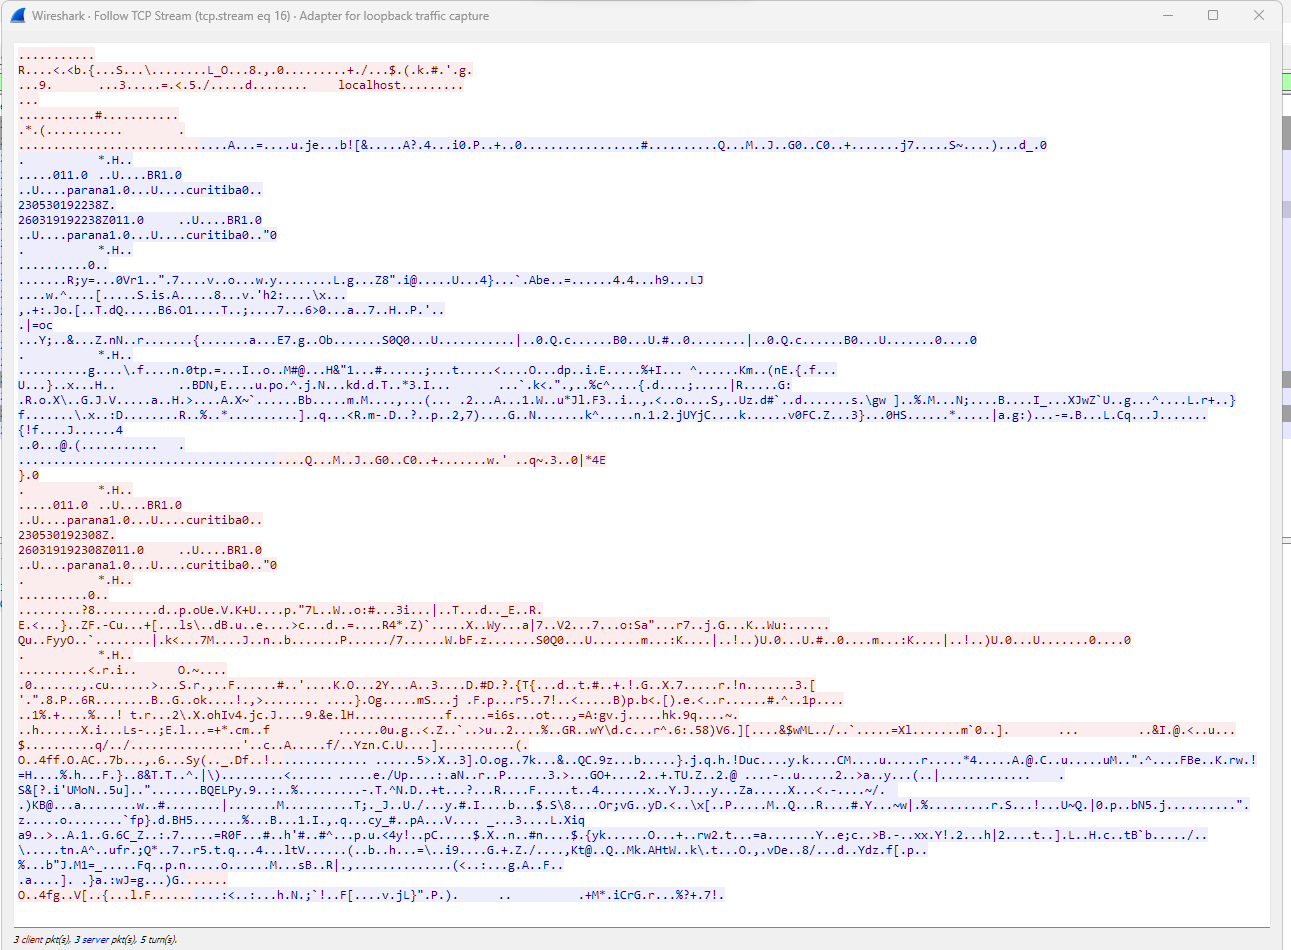
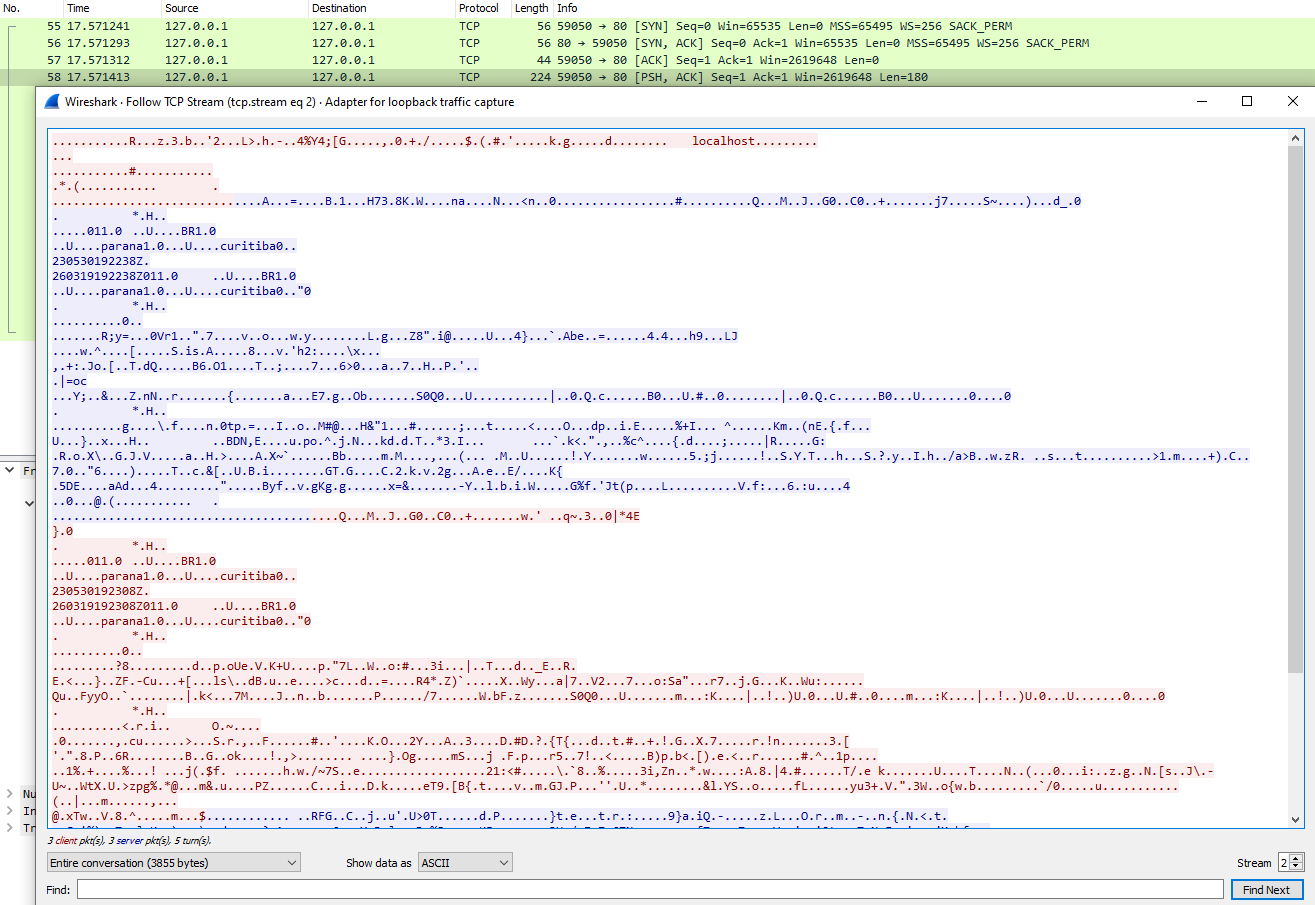
Versão final contendo os relatórios de testes

diff --git a/src/server.py b/src/server.py
@@ -19,12 +19,12 @@ temp_table_columns = f'{temp_table_column_key} INTEGER, {temp_table_column_value
 
 # Define o endereço IP e a porta do servidor
 server_ip = 'localhost'
-server_port = 80
+server_port = 3000
 cert_file = 'certificados/certificate-server.crt'
 key_file = 'certificados/certificate-server.key'
 
 # Define configurações do banco de dados configurado no PostgreSQL do servidor
-# NOTA: Necessário configurar banco no PC, baixando o PostgreSQL
+# NOTA1: Necessário configurar banco no PC conforme as credenciais definidas aqui
 db_host = 'localhost'
 db_port = 5432
 db_name = 'postgres'
@@ -176,8 +176,9 @@ def handle_server(server_socket):
             break
 
 
-########## main ##########
+## Fluxo principal ##
 
+# Criação do banco de dados PSQL
 db_connection, db_cursor = create_database();
 
 # Criação do objeto socket
@@ -192,10 +193,10 @@ server_socket.listen(5)
 print('Servidor pronto para receber conexões...')
 
 # Criação do contexto SSL/TLS 
-#context = ssl.create_default_context(ssl.Purpose.CLIENT_AUTH)
 context = ssl.SSLContext(ssl.PROTOCOL_TLSv1_2)
 context.load_verify_locations(cafile='certificados/certificate-client.crt')
 context.load_cert_chain(certfile=cert_file, keyfile=key_file)
+context.keylog_filename = './logs/keylog.log'
 context.verify_mode = ssl.CERT_REQUIRED
 
 # Cria uma thread para poder interromper a execução do servidor
@@ -216,7 +217,7 @@ while True:
     # Inicia camada de segurança SSL/TLS
     secure_connection = context.wrap_socket(client_socket, server_side=True)
 
-    # Cria uma thread pra processar a requisicao do cliente
+    # Cria uma thread pra processar a requisição do cliente
     client_handler = threading.Thread(target=handle_request, args=(secure_connection, db_connection,))
     client_handler.start()
 

diff --git a/src/client.py b/src/client.py
@@ -8,11 +8,11 @@ import ssl
 
 # Define o endereço IP e a porta
 target_ip = 'localhost'
-target_port = 80
+target_port = 3000
 cert_file = 'certificados/certificate-client.crt'
 key_file = 'certificados/certificate-client.key'
 
-# Lida com os inputs do usuario para obter os detalhes da requisicao
+# Lida com os inputs do usuario para obter os detalhes da requisicao a ser feita
 def handle_input():
 
     # Recebe a ação a ser realizada
@@ -121,6 +121,7 @@ def handle_input():
 
     return cmd_input
 
+## Fluxo principal ## 
 
 # Envia uma mensagem de input do usuário para o servidor
 while True:
@@ -138,27 +139,25 @@ while True:
     client_socket = socket.socket(socket.AF_INET, socket.SOCK_STREAM)
 
     # Configuração do contexto SSL/TLS
-    #context = ssl.create_default_context(ssl.Purpose.SERVER_AUTH)
     context = ssl.SSLContext(ssl.PROTOCOL_TLSv1_2)
     context.load_verify_locations(cafile='certificados/certificate-server.crt')
     context.load_cert_chain(certfile=cert_file, keyfile=key_file)
-
-    #context.check_hostname = False  # Desabilita verificação de hostname
     context.verify_mode = ssl.CERT_REQUIRED
+    #context.check_hostname = False  # Desabilita verificação de hostname
 
     # Inicia a camada de segurança SSL/TLS
     secure_socket = context.wrap_socket(client_socket, server_hostname=target_ip)
 
     # Conecta e envia uma mensagem para o servidor
     secure_socket.connect((target_ip, target_port))
-
     secure_socket.send(cmd_input.encode('utf-8'))
 
-    # Recebe 4096 bits de resposta
+    # Recebe 1024 bits de resposta
     client_response = secure_socket.recv(1024)
 
     # Imprime a resposta do servidor
     print(client_response)
 
+    # Fecha a conexão com os sockets
     secure_socket.close()
     client_socket.close()

diff --git a/relatorio/relatorio.md b/relatorio/relatorio.md
@@ -1,8 +1,7 @@
-# Relatório do trabalho prático - Tópicos em Redes
-## Cliente-Servidor KVS seguro com TLS
-### Andrei Alisson Ferreira Julio e João Pedro Kieras Oliveira
+# Relatório do trabalho prático de Tópicos em Redes - Cliente-Servidor KVS seguro com TLS
+### Autores: Andrei Alisson Ferreira Julio e João Pedro Kieras Oliveira
 
-### Funcionamento do TLS
+## Overview
 O trabalho foi implementado inteiramente em linguagem Python. São dois arquivos fonte: client.py e server.py .
 Para executar os mesmos, basta:
 ```
@@ -12,10 +11,24 @@ $ python3 client.py
 $ python3 server.py
 ```
 
-Utilizamos um banco de dados relacional PostgreSQL, para instalar a versão mais recente utilize o link:
-```bash
-https://www.postgresql.org/download/windows/
+
+### Funcionamento do banco de dados
+
+Para a parte dos dados KV (Key-Value) no sistema, utilizamos um banco de dados relacional PostgreSQL. O programa cria uma pequena base de dados, e uma tabela `{chave (INTEGER), valor (STRING)}` contendo os dados iniciais  `{1, 'ANDREI'; 2, 'JOAO'} `, sendo a chave uma PK (Primary-Key).
+
+Após executa os programas, o programa do cliente dá ao usuário 5 opções de input, sendo elas:
 ```
+1-Select, 2-Insert, 3-Update, 4-Delete, 5-Exit:
+```
+`1-Select:` Realiza uma consulta de dados, podendo ser por `1-Chave, 2-Valor`. A consulta por valor retorna padrões de string (utilizando o comando ILIKE do psql), fazendo com que possa ser retornado várias rows contendo dados.
+`2-Insert:` Realiza uma inclusão de dados, digitando os dados de `Chave` e `Valor`, respeitando a propriedade PK do campo Chave.
+`3-Update:` Realiza uma alteração de dados, digitando os dados de `Chave` e o novo `Valor` que será atualizado no banco de dados.
+`4-Delete:` Realiza uma exclusão de dados, digitando os dados de `Chave` apenas para ser excluído.
+
+O cliente então envia uma sequência de dados concatenados pela string "|", e o servidor processa essa sequência sabendo o que foi pedido pelo cliente, e então retorna os dados obtidos da consulta (para a consulta), ou retorna uma mensagem de sucesso (para Inclusão/Alteração/Exclusão). Caso haja algum erro, é retornado para o cliente uma mensagem contendo o erro.
+
+
+### Funcionamento do TLS
 
 Antecipando um pouco do que veremos adiante, a parte da criação de certificados é muito importante neste trabalho pois é com base nos certificados criados que a conexão segura é estabelecida.
 Utilizamos os seguintes comandos para criar os certificados tanto para o servidor quanto para o cliente:
@@ -56,7 +69,12 @@ secure_socket.connect((target_ip, target_port))
 secure_socket.send(...)
 ```
 
-### Tentativa de ataque
+## Testes de Sigilo/Autenticidade/Integridade
+
+Na hora que vamos criar um certificado são feitas uma série de perguntas para garantir uma certa legitimidade do mesmo. Quando criamos os certificados para este trabalho foram perguntadas coisas como "Qual o seu país?" "Qual seu estado?" e "Qual sua cidade?" dentre muitas outras. Respondemos as perguntas com "BR", "parana" e "curitiba" respectivamente.
+É possível ver no payload dos pacotes essas informações do certificado, assim, a comunicação de fato usa essa ferramenta de segurança e conseguimos ver também que toda a informação está cifrada.
+
+#### Autenticidade
 
 Para simular uma tentativa de ataque ao sistema podemos utilizar como base o próprio programa client.py alterando o certificado e a chave privada. Um atacante, por mais que soubesse o endereço IP do servidor e as portas utilizadas, muito dificilmente teria acesso aos certificados usados na comunicação pois essa parte é feito por uma organização terceira. Ao tentar utilizar um certificado e chave privada diferente do que o servidor aceita e conhece, obtemos o seguinte erro (por parte do servidor) ao tentar executar o programa:
 
@@ -66,7 +84,33 @@ ssl.SSLCertVerificationError: [SSL: CERTIFICATE_VERIFY_FAILED] certificate verif
 
 O erro também ocorre caso o atacante tente se passar como servidor para enganar o cliente, o cliente verifica o certificado e, ao perceber que é diferente do certificado do servidor, nega a conexão.
 
-Comprovando, assim, que a comunicação é de fato segura e garante autenticidade.
+Comprovando, assim, que a comunicação é de fato segura e garante `autenticidade`.
 
-Para garantir o sigilo podemos observar pelo Wireshark os pacotes que foram transmitidos durante a conexão.
+#### Sigilo
 
+Para garantir o sigilo podemos observar pelo Wireshark os pacotes que foram transmitidos durante a conexão. O protocolo SSL criptografa automaticamente as mensagens, então ao tentar interceptá-las, se o atacante não tiver a chave, então ele terá acesso apenas a uma sequência da caracteres sem sentido. A imagem abaixo mostra um exemplo de uma mensagem padrão interceptada utilizando o protocolo SSL com criptografia
+
+![Screenshot Wireshark](img/wireshark-trab.png)
+
+Foram também realizados testes utilizando uma comunicação SEM o protocolo SSL, e foi observado que é possível interceptar as mensagens trocadas entre a comunicação do cliente/servidor abertamente, conforme mostra a imagem abaixo, provando o `sigilo` do sistema.
+
+![Screenshot Wireshark Without SSL](img/wireshark-trab-no-ssl.png)
+
+#### Integridade
+
+Para provar a integridade, foram feitos testes utilizando o Wireshark novamente.
+
+O programa server.py foi configurado pra importar um arquivo `./logs/keylog.log` contendo a chave TLS utilizada na comunicação. Este arquivo foi importado no programa Wireshark para a visualização das mensagens.
+
+Foi então salvo o arquivo da comunicação entre o cliente e servidor, no formato do próprio Wireshark (.pcapng). Este arquivo foi adulterado manualmente, alterando um bit hexadecimal da mensagem de retorno.
+
+As imagens abaixo mostram os testes realizados, a primeira contendo o arquivo correto sem adulterar, e a segunda, trocando o hexa de valor `90` para o valor `91`. O resultado foi que o programa não conseguiu descriptografar a mensagem de retorno. Isso prova que o sistema possui `integridade` e não é possível alterar a mensagem no meio da comunicação (Utilizando ataques como Man in the Middle).
+
+![Screenshot Wireshark Std](img/wireshark-trab-integ-std.png)
+
+![Screenshot Wireshark err](img/wireshark-trab-integ-err.png)
+
+
+## Conclusão
+
+Concluímos este trabalho com o aprendizado de como implementar um sistema simples de cliente/servidor de maneira segura atreavés do TLS, de forma que ataques comuns realizados possam ser evitados, mantendo a comunicação segura e consistente.

diff --git a/README.md b/README.md
@@ -1,5 +1,5 @@
-# Introdução do Trabalho
-Trabalho de Tópicos em Redes de Computadores, apresentando uma implementação de um sistema cliente/servidor...
+# Introdução do Projeto
+Uma implementação simples de um sistema cliente/servidor seguro com TLS em python, com dados baseados em Key-Value. O sistema cria uma base de dados simples em um banco de dados PostgreSQL, e permite Consulta/Inclusão/Alteração/Exclusão de dados neste sistema.
 
 # Requisitos
 Python instalado na máquina
@@ -14,7 +14,7 @@ Componentes do PostgreSQL
 pip install psycopg2
 ```
 
-Versão mais recente do postgreSQL (15.3) Configurada no PC
+Versão mais recente do postgreSQL (15.3) Configurada no PC, utilizando as credenciais definidas no programa server.py, no comentário # NOTA1
 
 ```bash
 https://www.postgresql.org/download/windows/
@@ -56,3 +56,13 @@ Preencha as informações conforme necessário.
 openssl x509 -req -in client_csr.pem -CA server_cert.pem -CAkey server_key.pem -CAcreateserial -out client_cert.pem
 ```
 Agora, você terá os arquivos client_key.pem (chave privada do cliente) e client_cert.pem (certificado do cliente).
+
+### Execução
+Basta rodar os scripts para abrir uma conexão para o servidor, e outra para o cliente
+
+```
+$ python3 client.py
+```
+```
+$ python3 server.py
+```
